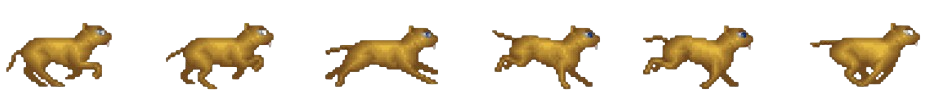
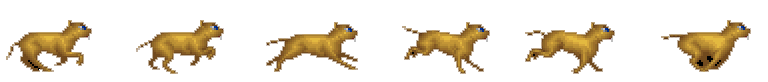
Create texture manager

diff --git a/Game.cc b/Game.cc
@@ -1,96 +1,90 @@
 #include "Game.h"
+#include <SDL2/SDL.h>
 #include <SDL2/SDL_render.h>
+#include <SDL2/SDL_surface.h>
 #include <SDL2/SDL_timer.h>
 #include <SDL2/SDL_image.h>
+#include <SDL2/SDL_video.h>
 #include <iostream>
 
-Game::Game() : m_pWindow(nullptr), m_pRenderer(nullptr), m_bRunning(false), m_pTexture(nullptr) {}
-
-Game::~Game() {}
-
 bool Game::init(const char* title, int xpos, int ypos, int width, int height, bool fullscreen) {
-    int flags = 0;
+    
+    // attempt to initialize SDL
+    if (SDL_Init(SDL_INIT_EVERYTHING) == 0) {        
+        int flags = 0;
+        
+        if(fullscreen) {
+            flags = SDL_WINDOW_FULLSCREEN;
+        }        
 
-    if (fullscreen) {
-        flags = SDL_WINDOW_FULLSCREEN;
-    }
+        std::cout << "SDL init success\n";
 
-    // Initialize SDL
-    if (SDL_Init(SDL_INIT_VIDEO) != 0) {
-        std::cout << "SDL init fail: " << SDL_GetError() << std::endl;
+        // init the window
+        m_pWindow = SDL_CreateWindow(title, xpos, ypos, width, height, flags);
+
+        if (m_pWindow != 0) { // window init success            
+            std::cout << "window creatrion success\n";
+            m_pRenderer = SDL_CreateRenderer(m_pWindow, -1, 0);
+
+            if(m_pRenderer != 0){ // renderer init success
+                std::cout << "renderer creation success\n";
+                SDL_SetRenderDrawColor(m_pRenderer, 255, 0, 0, 255);
+            } else {
+                std::cout << "renderer init fail\n";
+                return false; // render init fail
+            }
+        } else {
+            std::cout << "window init fail\n";
+            return false; // window init fail
+        }
+    } else {
+        std::cout << "SDL init fail\n";
         return false;
     }
 
-    // Create window
-    m_pWindow = SDL_CreateWindow(title, xpos, ypos, width, height, flags);
-    if (m_pWindow == nullptr) {
-        std::cout << "Window creation fail: " << SDL_GetError() << std::endl;
-        SDL_Quit();
-        return false;
-    }
+    std::cout << "init success";
+    m_bRunning = true; // everything inited successfuly, start the main loop
 
-    // Create renderer
-    m_pRenderer = SDL_CreateRenderer(m_pWindow, -1, SDL_RENDERER_ACCELERATED);
-    if (m_pRenderer == nullptr) {
-        std::cout << "Renderer creation fail: " << SDL_GetError() << std::endl;
-        SDL_DestroyWindow(m_pWindow);
-        SDL_Quit();
-        return false;
-    }
-
-    // Load texture
-    SDL_Surface* pTempSurface = IMG_Load("assets/animate-alpha.png");
-    if (pTempSurface == nullptr) {
-        std::cout << "Failed to load image: " << SDL_GetError() << std::endl;
-        SDL_DestroyRenderer(m_pRenderer);
-        SDL_DestroyWindow(m_pWindow);
-        SDL_Quit();
-        return false;
-    }
-
+ /*
+    SDL_Surface* pTempSurface = IMG_Load("assets/animate.jpg");
     m_pTexture = SDL_CreateTextureFromSurface(m_pRenderer, pTempSurface);
     SDL_FreeSurface(pTempSurface);
+    SDL_QueryTexture(m_pTexture, NULL, NULL, &m_sourceRectangle.w, &m_sourceRectangle.h);
 
-    if (m_pTexture == nullptr) {
-        std::cout << "Failed to create texture: " << SDL_GetError() << std::endl;
-        SDL_DestroyRenderer(m_pRenderer);
-        SDL_DestroyWindow(m_pWindow);
-        SDL_Quit();
-        return false;
-    }
+    m_sourceRectangle.w = 128;
+    m_sourceRectangle.h = 82;
 
-    // Set initial values for source rectangle
-    m_sourceRectangle.x = 0;
-    m_sourceRectangle.y = 0;
-    m_sourceRectangle.w = 155; // Width of the visible area of the tiger
-    m_sourceRectangle.h = 97; // Height of the tiger image
+    m_destinationRectangle.x = 0;
+    m_destinationRectangle.y = 0;
+    m_destinationRectangle.w = m_sourceRectangle.w;
+    m_destinationRectangle.h = m_sourceRectangle.h;
+*/
 
-    // Set initial values for destination rectangle
-    m_destinationRectangle.x = 0; // X position in the window where the image will be rendered
-    m_destinationRectangle.y = 0; // Y position in the window where the image will be rendered
-    m_destinationRectangle.w = m_sourceRectangle.w; // Width of the destination rectangle
-    m_destinationRectangle.h = m_sourceRectangle.h; // Height of the destination rectangle
+    m_textureManager.load("assets/animate-alpha.png", "animate", m_pRenderer);
 
-    std::cout << "Init success\n";
-    m_bRunning = true;
     return true;
 }
 
 
 void Game::update() {
-    m_sourceRectangle.x = 156 * int(((SDL_GetTicks() / 100 ) % 6));
+    m_currentFrame = int(((SDL_GetTicks()/100) % 6));
 }
 
 
 void Game::render() {
-    SDL_SetRenderDrawColor(m_pRenderer, 255, 0, 0, 255);
-
     SDL_RenderClear(m_pRenderer);
 
-    SDL_RenderCopyEx(m_pRenderer, m_pTexture, &m_sourceRectangle, &m_destinationRectangle, 
-        0, 0, SDL_FLIP_HORIZONTAL); // pass in the horizontal flip
+    m_textureManager.draw("animate", 0, 0, 128, 82, m_pRenderer);
+    m_textureManager.drawFrame("animate", 100, 100, 128, 82, 1, m_currentFrame, m_pRenderer);
 
     SDL_RenderPresent(m_pRenderer);
+}
+
+void Game::clean() {
+    std::cout << "Cleaning game\n";
+    SDL_DestroyWindow(m_pWindow);
+    SDL_DestroyRenderer(m_pRenderer);
+    SDL_Quit();
 }
 
 void Game::handleEvents() {
@@ -106,14 +100,4 @@ void Game::handleEvents() {
     }
 }
 
-void Game::clean() {
-    std::cout << "Cleaning game\n";
-    SDL_DestroyWindow(m_pWindow);
-    SDL_DestroyRenderer(m_pRenderer);
-    SDL_Quit();
-}
-
-bool Game::running() {
-    return m_bRunning;
-}
 

diff --git a/TextureManager.cc b/TextureManager.cc
@@ -1,0 +1,58 @@
+#include "TextureManager.h"
+#include <SDL2/SDL_image.h>
+#include <SDL2/SDL_rect.h>
+#include <SDL2/SDL_render.h>
+#include <SDL2/SDL_surface.h>
+#include <string>
+
+bool TextureManager::load(std::string fileName, std::string id, SDL_Renderer* pRenderer) {
+    
+    SDL_Surface* pTempSurface = IMG_Load(fileName.c_str());
+
+    if (pTempSurface == 0) {
+        return false;
+    }
+
+    SDL_Texture* pTexture = SDL_CreateTextureFromSurface(pRenderer, pTempSurface);
+
+    SDL_FreeSurface(pTempSurface);
+
+    // everything went ok, add the texture to our list
+    if(pTexture != 0) {
+        m_textureMap[id] = pTexture;
+        return true;
+    }
+
+    // reaching here means something went wrong
+    return false;
+}
+
+void TextureManager::draw(std::string id, int x, int y, int width, int height, SDL_Renderer* pRenderer, SDL_RendererFlip flip) {
+    
+    SDL_Rect srcRect;
+    SDL_Rect destRect;
+
+    srcRect.x = 0;
+    srcRect.y = 0;
+    srcRect.w = destRect.w = width;
+    srcRect.h = destRect.h = height;
+    destRect.x = x;
+    destRect.y = y;
+
+    SDL_RenderCopyEx(pRenderer, m_textureMap[id], &srcRect, &destRect, 0, 0, flip);
+}
+
+void TextureManager::drawFrame(std::string id, int x, int y, int width, int height, int currentRow, int currentFrame, SDL_Renderer *pRenderer, SDL_RendererFlip flip) {
+    
+    SDL_Rect srcRect;
+    SDL_Rect destRect;
+
+    srcRect.x = width * currentFrame;
+    srcRect.y = height * (currentFrame -1 );
+    srcRect.w = destRect.w = width;
+    srcRect.h = destRect.h = height;
+    destRect.x = x;
+    destRect.y = y;
+
+    SDL_RenderCopyEx(pRenderer, m_textureMap[id], &srcRect, &destRect, 0, 0, flip);
+}

diff --git a/Game.h b/Game.h
@@ -2,18 +2,20 @@
 #define __Game__
 
 #include "SDL2/SDL.h"
+#include "TextureManager.h"
 
 class Game {
 public:
-    Game();
-    ~Game();
+    Game() {}
+    ~Game() {}
 
     bool init(const char* title, int xpos, int ypos, int width, int height, bool fullscreen);
     void render();
     void update();
     void handleEvents();
     void clean();
-    bool running();
+
+    bool running() { return m_bRunning; }
 
 private:
     SDL_Window* m_pWindow;
@@ -21,7 +23,11 @@ private:
     SDL_Texture* m_pTexture; // the new SDL_Texture variable
     SDL_Rect m_sourceRectangle; // the first rectangle
     SDL_Rect m_destinationRectangle; // another rectangle
+    
     bool m_bRunning;
+
+    int m_currentFrame;
+    TextureManager m_textureManager;
 };
 
 #endif /* defined(__Game__) */

diff --git a/TextureManager.h b/TextureManager.h
@@ -1,0 +1,23 @@
+#ifndef __TextureManager__
+#define __TextureManager__
+
+
+#include <SDL2/SDL_render.h>
+#include <map>
+#include <string>
+
+class TextureManager {
+
+public:
+    bool load(std::string filename, std::string id, SDL_Renderer* pRenderer);
+
+    // draw
+    void draw(std::string id, int x, int y, int width, int height, SDL_Renderer* pRenderer, SDL_RendererFlip flip = SDL_FLIP_NONE);
+
+    // drawframe
+    void drawFrame(std::string id, int x, int y, int width, int height, int currentRow, int currentFrame, SDL_Renderer* pRenderer, SDL_RendererFlip flip = SDL_FLIP_NONE);
+private:
+    std::map<std::string, SDL_Texture*> m_textureMap;
+};
+
+#endif // defined(__SDL_Game_Programming_Book__TextureManager__)

diff --git a/main.cc b/main.cc
@@ -1,9 +1,14 @@
 #include "Game.h"
 
-int main(int argc, char* argv[]){
-    Game* g_game = new Game();
 
-    g_game->init("Chapter 1", 100, 100, 155, 97, false);
+// our Game object
+Game* g_game = 0;
+
+int main(int argc, char* args[]) {
+    
+    g_game = new Game();
+
+    g_game->init("Chapter 1", 100, 100, 640, 480, false);
 
     while (g_game->running()) {
         g_game->handleEvents();
@@ -12,7 +17,7 @@ int main(int argc, char* argv[]){
     }
 
     g_game->clean();
-    delete g_game;
+    // delete g_game;
 
     return 0;
 }
